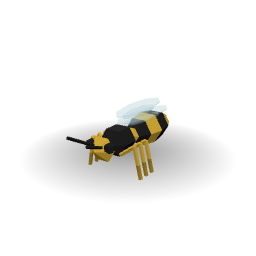
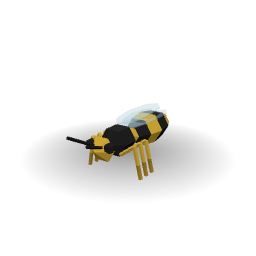
Honeybee and wasp: one flap line for the fore and hind wing, tuned landed pose
First review (Opus): the fore and hind wing of a side turned about pivots
at different heights, so their planes crossed for about a third of every
Fly beat. Both now share the pivot x and z (the y still differs, so each
folds about its own root). The honeybee's hind wing moved forward on the
thorax so its root stays in contact. The landed pile is retuned with a
harness over triangle-pair overlaps and body distance (no overlaps in Fly
or Idle, the left wings are in the body, the right fore wing floats 0.4 to
0.5 mm); the unused hind_lift parameter is gone, the flap() docstring and
the NOTES figures are corrected.

Changed region(s): [[0.4375, 0.375, 0.6562, 0.5]]

diff --git a/art/scripts/insects.py b/art/scripts/insects.py
@@ -143,7 +143,7 @@ def wing(p, edge, fill, pts, z0, tilt=25.0, side=1, thick=0.5, inset=0.8):
 
 
 def flap(p, role, side, pivot):
-    """The wings added inside are one moving piece (Wing_L / Wing_R, or `role` + _L / _R) that flaps about the body line through `pivot`."""
+    """The wings added inside are one moving piece (Wing_L / Wing_R, or `role` + _L / _R) that flaps about the lengthwise line through `pivot`. A model with two wing pieces a side (WingF, WingH) must give both the same pivot x and z, or the two turn about different lines and their planes cross during the beat."""
     return moving(p, f"{role}_{'L' if side > 0 else 'R'}", pivot)
 
 
@@ -265,10 +265,10 @@ def honeybee():
     blob(p, "golden", (0, -2.2, 4.4), (2.7, 2.4, 2.5), n=6)
     blob(p, "black", (0, -5.2, 4.0), (1.8, 1.3, 1.7), n=6, rings=1)
     for s in (-1, 1):
-        with flap(p, "WingF", s, (s * 0.41, -1.5, 6.2)):                                      # each wing is rooted on the thorax's side and turns about its own root
+        with flap(p, "WingF", s, (s * 0.41, -1.5, 5.95)):                                      # each wing is rooted on the thorax's side and turns about its own root
             wing(p, "clear_glass", None, ellipse_pts(0.5 + 4.5, -1.5, 4.5, 2.0), 5.91, tilt=35, side=s, thick=0.2)
-        with flap(p, "WingH", s, (s * 0.41, -0.5, 5.7)):
-            wing(p, "clear_glass", None, ellipse_pts(0.5 + 3.2, -0.5, 3.2, 1.5), 5.41, tilt=35, side=s, thick=0.2)
+        with flap(p, "WingH", s, (s * 0.41, -1.0, 5.95)):
+            wing(p, "clear_glass", None, ellipse_pts(0.5 + 3.2, -1.0, 3.2, 1.5), 5.41, tilt=35, side=s, thick=0.2)
     legs(p, "black", 1.6, (-3.0, -1.6, -0.2), 3.0, 2.0, 0.8, 0.4, dy=0.8, move=False)
     antennae(p, "black", (0.6, -6.2, 4.6), (1.6, -8.5, 6.0), 0.3)
     return p
@@ -490,7 +490,7 @@ def wasp():
         ball_at(p, "black", (s * 1.5, -6.3, 4.8), 0.8, n=5)                                 # the eyes
         with flap(p, "WingF", s, (s * 0.45, -2.6, 6.15)):                                     # each wing is rooted on the thorax's side and turns about its own root
             wing(p, "clear_glass", None, ellipse_pts(0.5 + 6.0, -2.6, 6.0, 1.8), 5.94, tilt=25, side=s, thick=0.18)
-        with flap(p, "WingH", s, (s * 0.45, -1.0, 5.8)):                                      # 0.35 mm under the fore wing (0.18 thick each), so they never share a plane
+        with flap(p, "WingH", s, (s * 0.45, -1.0, 6.15)):                                      # same flap line as the fore wing (z), 0.35 mm under it (0.18 thick each)
             wing(p, "clear_glass", None, ellipse_pts(0.5 + 4.2, -1.0, 4.2, 1.3), 5.59, tilt=25, side=s, thick=0.18)
     legs(p, "paint_yellow", 1.4, (-3.8, -2.4, -1.0), 3.0, 3.0, 1.6, 0.4, dy=0.5, move=False)
     antennae(p, "black", (0.6, -6.7, 4.8), (1.6, -11.0, 6.8), 0.3)

diff --git a/art/scripts/insect_anim.py b/art/scripts/insect_anim.py
@@ -97,13 +97,13 @@ def fold_wings(rig, prefix="Wing", back=72.0, down=14.0, spread=0.0, lift=0.0, g
         turn(rig, name, x=-down)
 
 
-def idle_folded(rig, t, back=72.0, down=14.0, spread=0.0, lift=0.0, gap=0.0, prefixes=("Wing",), hind_lift=0.0):
+def idle_folded(rig, t, back=72.0, down=14.0, spread=0.0, lift=0.0, gap=0.0, prefixes=("Wing",)):
     """Landed: wings folded back over the abdomen (a small shiver), the antennae feel about (a housefly has none). prefixes names the wing bones: a bee or wasp has WingF and WingH."""
     w = 2 * math.pi * t
     turn(rig, "Body", x=1.2 * math.sin(w))
     antennae(rig, w)
-    for prefix in prefixes:                                             # hind_lift: the hind wings go this much lower (the roots are at different y, so the turn changes their spacing)
-        fold_wings(rig, prefix, back=back + 2.0 * math.sin(w), down=down, spread=spread, lift=lift + (hind_lift if prefix == "WingH" else 0.0), gap=gap)
+    for prefix in prefixes:
+        fold_wings(rig, prefix, back=back + 2.0 * math.sin(w), down=down, spread=spread, lift=lift, gap=gap)
 
 
 def hang_legs(rig, droop=126.0, trail=15.0, raise_by=0.0012):
@@ -217,8 +217,8 @@ def hop(rig, t):
 MOTIONS = {
     "butterfly": (("Idle", idle_butterfly, 48, 24), ("Fly", lambda r, t: fly(r, t, 38.0, 14.0, 0.0015, 3.0), 8, 24)),
     "moth": (("Idle", idle_flyer, 48, 24), ("Fly", lambda r, t: fly(r, t, 34.0, 12.0, 0.001, 2.5), 6, 24)),
-    "bee": (("Idle", lambda r, t: idle_folded(r, t, back=86.0, down=35.0, spread=-0.41, lift=0.6, gap=1.05, prefixes=("WingF", "WingH")), 48, 24), ("Fly", lambda r, t: fly(r, t, 38.0, 12.0, 0.0, 0.0), 4, 24)),
-    "wasp": (("Idle", lambda r, t: idle_folded(r, t, back=86.0, down=25.0, spread=-0.45, lift=0.5, gap=1.0, prefixes=("WingF", "WingH"), hind_lift=-0.25), 48, 24), ("Fly", lambda r, t: fly(r, t, 38.0, 12.0, 0.0, 0.0), 4, 24)),
+    "bee": (("Idle", lambda r, t: idle_folded(r, t, back=86.0, down=35.0, spread=-0.41, lift=-0.2, gap=1.0, prefixes=("WingF", "WingH")), 48, 24), ("Fly", lambda r, t: fly(r, t, 38.0, 12.0, 0.0, 0.0), 4, 24)),
+    "wasp": (("Idle", lambda r, t: idle_folded(r, t, back=86.0, down=25.0, spread=-0.45, lift=-0.2, gap=0.8, prefixes=("WingF", "WingH")), 48, 24), ("Fly", lambda r, t: fly(r, t, 38.0, 12.0, 0.0, 0.0), 4, 24)),
     "fold": (("Idle", lambda r, t: idle_folded(r, t, back=86.0, down=22.0, spread=-0.48, lift=-0.15, gap=0.25), 48, 24), ("Fly", lambda r, t: fly(r, t, 38.0, 12.0, 0.0, 0.0), 4, 24)),
     "mosquito": (("Idle", lambda r, t: idle_folded(r, t, back=86.0, down=15.0, spread=-0.24, gap=0.12), 48, 24), ("Fly", lambda r, t: fly_hanging_legs(r, t, 38.0, 12.0), 4, 24)),
     "dragonfly": (("Idle", idle_flyer, 48, 24), ("Fly", lambda r, t: fly(r, t, 26.0, 4.0, 0.0, 0.0, counter=True), 6, 24)),

diff --git a/NOTES.md b/NOTES.md
@@ -267,11 +267,12 @@ Housefly and Mosquito: the Idle clip (the pose the viewer opens on, and the thum
 
 **Measured** on the posed meshes (24 phases of the stroke, every frame of Idle) and on the exported GLBs (a skinning sampler at every key): in Fly every wing touches the body at every phase; in Idle the lower wing does and the upper wing rests within 0.08 mm of the wing below it; no wing-wing, wing-leg or leg-body contact in any clip, except the thigh and shin overlapping 0.01 to 0.02 mm at the knee, which is the joint. The legs are 0.6 mm from the wings at the closest, and the knee gap stays under 0.05 mm at every phase and in blends of Idle and Fly. Both models were looked at in the site viewer (Idle and Fly, Fly at 0.1 speed). The Opus first review and the Fable final review of the first change (wings crossing, wings through the thighs, legs swung forward, stale thumbnails) and the Opus first review of this one (the Fly wings through the front legs, the root depth figures, the stale manifest sizes, the short mosquito wings) are handled.
 
-**Not done:** the honeybee and wasp still hold their wings out when landed; the wing roots of the two wings overlap by 0.02 mm at some phases of the Fly clip (older geometry); a resting housefly holds its wings in a slight V (ours lie one over the other); the manifest sizes of the two were edited by hand (`make_manifest.py` stops on models whose `out/meta` is missing) and match the GLB bounding boxes.
+**Not done:** (the honeybee and wasp, which held their wings out too, are done: see the next section) the wing roots of the two wings overlap by 0.02 mm at some phases of the Fly clip (older geometry); a resting housefly holds its wings in a slight V (ours lie one over the other); the manifest sizes of the two were edited by hand (`make_manifest.py` stops on models whose `out/meta` is missing) and match the GLB bounding boxes.
 
 ## Landed honeybee and wasp (2026-10-26)
-Same fix as the fly and mosquito ("Landed fly and mosquito"), for the other two flyers that still held their wings out when landed. Honeybee and Wasp: the fore and hind wing of a side were one bone (`Wing_L`/`Wing_R`) rooted on the body's midline; now each is its own bone (`WingF_*`, `WingH_*`, 8 bones for both models: the fore wing and the hind wing turn about their own roots), rooted on the thorax's side 0.5 mm out and 0.3 mm lower than before, with the hind wing's outline moved forward on the thorax (the honeybee's from y = 1.2 to -0.5) so that its root is on the thorax and not over the abdomen. The Fly clip beats the same wings (`fly()` already handles `WingF` and `WingH`); the wasp's hind wing is 0.35 mm under its fore wing (it was 0.2 for wings 0.18 thick). New motions `bee` and `wasp` (they replace `buzz`, which nothing else used): Idle folds the four wings along the back (`idle_folded(prefixes=("WingF", "WingH"))`: level with the body, the two sides moved to the midline and stacked, the right pair 1.05 mm (bee) or 1.0 mm (wasp) above the left, and the hind pair 0.25 mm lower on the wasp, because the turn about two different roots changes their spacing).
-**Measured** (posed meshes: 24 phases of Fly, every Idle frame; exported GLBs: a skinning sampler at every key): in Fly every wing touches the body (the honeybee's hind wing within 0.06 mm); in Idle the left wings touch the body and the right wings rest 0.25 to 0.6 mm above them (the stack is held by its bones), and parts of the left wings are inside the body (up to 0.34 mm on the wasp, 0.17 mm on the honeybee); no wing-body clipping beyond the roots and no wing-leg contact in any clip; fore and hind wing of the honeybee touch by 0.014 mm at one phase of Fly. The wasp's thumbnail and the honeybee's were regenerated; the manifest sizes of both were edited by hand to match the GLB bounding boxes (honeybee 0.016 x 0.012 x 0.016, wasp 0.023 x 0.011 x 0.021). **Not done:** the black wasp or hornet the owner means to add holds its wings up when landed (that is a different pose, not built yet); a resting bee holds its wings in a slight V, ours lie level one over the other; the landed right wings hover 0.25 to 0.6 mm over the stack.
+Same fix as the fly and mosquito ("Landed fly and mosquito"), for the two flyers that still held their wings out when landed. Honeybee and Wasp: the fore and hind wing of a side were one bone (`Wing_L`/`Wing_R`) rooted on the body's midline; each is now its own bone (`WingF_*`, `WingH_*`: 8 bones in each model, was 6), rooted on the thorax's side (the outline starts 0.5 mm out, 0.3 mm lower than before for the bee, 0.3 to 0.45 mm for the wasp), with the honeybee's hind wing moved forward on the thorax (centre y 1.2 to -1.0) so that its root is on the thorax and not over the abdomen. **Both wings of a side turn about the same line** (the same pivot x and z; their y differs, which is what lets each fold about its own root): with different heights the two planes crossed during every beat (a first version, caught by the first review). The wasp's hind wing is 0.35 mm under its fore wing. New motions `bee` and `wasp` in `insect_anim.py` (they replace `buzz`, which nothing else used): the Fly clip is the same beat as before; Idle folds the four wings level along the back (`idle_folded(prefixes=("WingF", "WingH"))`: the two sides moved to the midline, the right pair stacked 1.0 mm (bee) or 0.8 mm (wasp) above the left, the whole pile 0.2 mm lower than the roots).
+**Measured** on the posed meshes (24 phases of Fly, 4 of Idle; triangle-pair overlaps and nearest-vertex distances) and on the exported GLBs (a skinning sampler, 40 points across the beat): no two wings overlap in Fly or Idle; in Fly every wing root is inside the body at every phase (at least 0.05 mm for the bee's fore wing, 0.01 mm for the wasp's hind wing); no wing-leg contact. Landed, both left wings are in the body (the hind wing up to 1 mm deep under the fore wing, so it is mostly hidden, and the fore wing 0.3 to 0.6 mm), the right hind wing touches, and the right fore wing floats 0.4 to 0.5 mm above the body: the pile of four wings is held together by their bones, not by contact. Thumbnails regenerated and the manifest sizes of both edited by hand (honeybee 0.016 x 0.012 x 0.016, wasp 0.023 x 0.011 x 0.021, the GLB bounding boxes). Looked at in the site viewer: the thumbnails (Idle) and the Fly clip at 0.1 speed (the honeybee, before the last pivot change; after it only measured).
+**Not done:** the black wasp or hornet the owner means to add holds its wings up when landed (a different pose, not built); a resting bee holds its wings in a slight V, ours lie level one over the other; the right fore wing's float.
 
 ## Scope (2026-10-25)
 Decided by the owner: the library takes generic things of any kind, including extinct and fantasy animals and creatures, weapons and military vehicles of any era (medieval, modern, sci-fi; always generic by type and low-poly, never a named make or model, no trademarked designs), and garbage and junk. Out: brands and trademarked designs, characters from other works, scanned or realistic models, and sexually explicit content (adult material, if wanted, is a separate project, not this public repository). The game's catalogue (`docs/from-game/art/prop-catalogue.md`) says real weapons are not catalogued; that was the game's rule and no longer applies here. The groups are tracked as issues (#117 to #148); the README no longer lists them.
